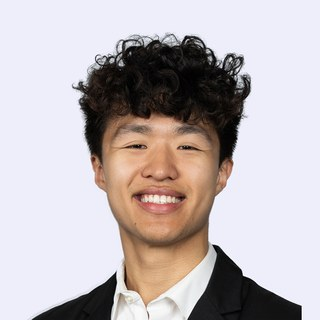
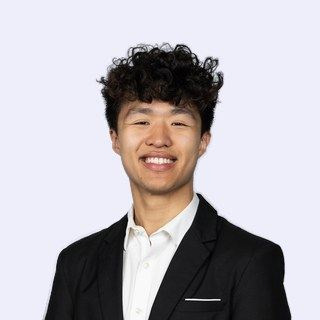
Use Tymewear photo in About; zoom out sidebar photo

diff --git a/index.html b/index.html
@@ -71,7 +71,7 @@
 <section class="sec" id="about">
   <div class="about-grid">
     <div class="about-left">
-      <div class="about-photo rv"><img src="assets/img/headshot-suit-full-cutout.png" alt="Alex Fu standing in a suit" width="853" height="1100" loading="lazy"></div>
+      <div class="about-photo rv"><img src="assets/img/tymewear-alex.png" alt="Alex Fu at Tymewear" width="461" height="615" loading="lazy"></div>
       <div class="box tint rv">
         <h3 class="box-h">Education</h3>
         <dl class="edu">

diff --git a/style.css b/style.css
@@ -452,3 +452,5 @@ li.open>.sk .n{background:#fff;color:var(--deep)}
 .current[data-open]::after{content:" \2192";color:var(--accent);font-weight:700}
 .minipills{display:flex;flex-wrap:wrap;gap:4px;margin:2px 0 0}
 .mpill{display:inline-block;font-size:11.5px;font-weight:700;line-height:1.35;color:var(--deep);background:var(--light);border-radius:10px;padding:2px 9px}
+/* Revision 9: About photo = Alex at Tymewear */
+.about-photo img{object-position:50% 22%}
